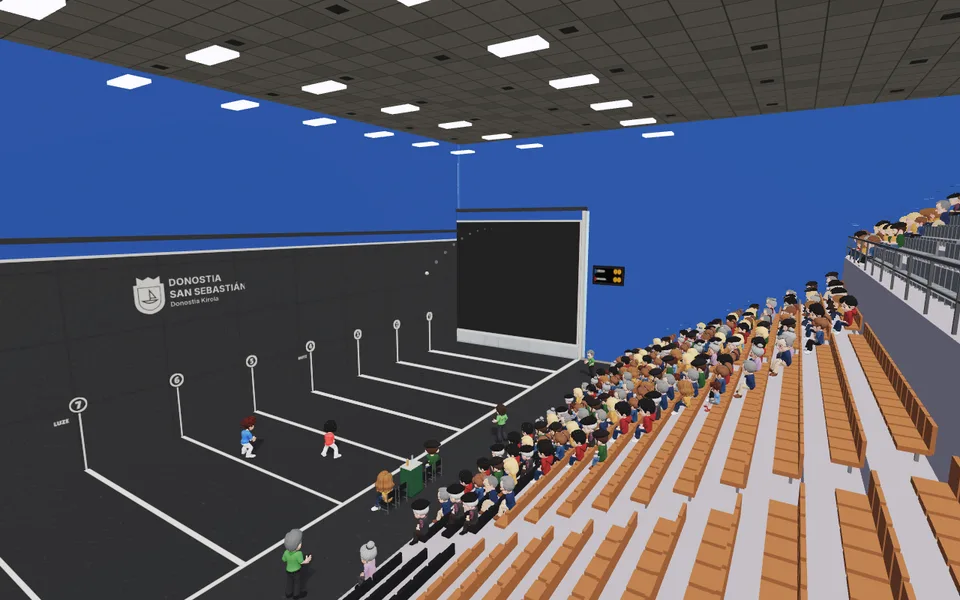
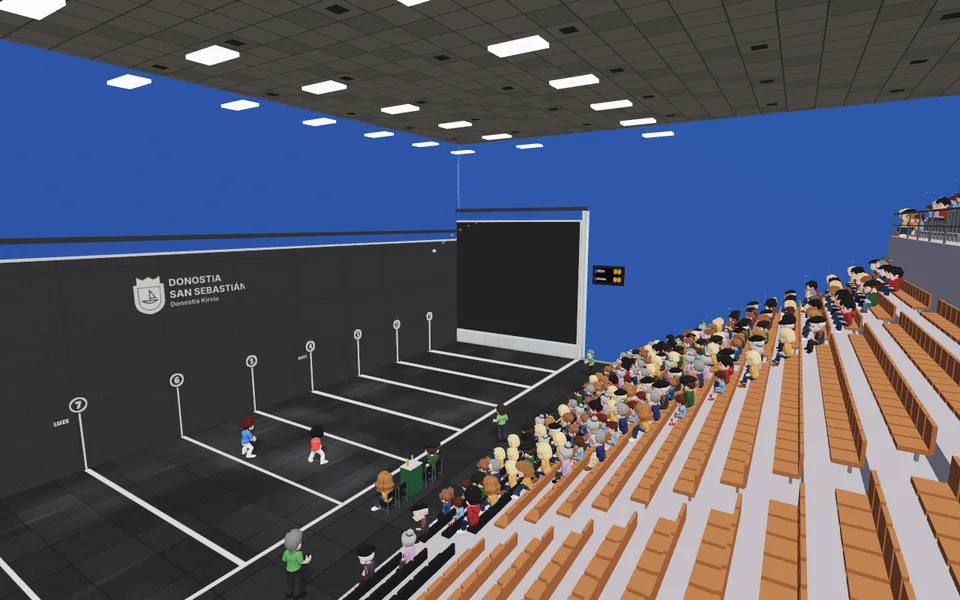
Atano III: el suelo de placas con brillo, la grada lateral mucho más grande y la grada del fondo encima del rebote
Por la foto del fondo que pasó el autor y su «el suelo es diferente y faltan muchísimas más gradas»: el suelo de placas
grandes, oscuro, gastado y con el brillo de las luces; la grada lateral de 27 filas (15 de butacas, las tres primeras
negras, y 12 de la grada alta); y al fondo, el rebote azul más bajo con la salida y la cristalera y, encima, la grada de
butacas rojas hasta el techo, de todo el ancho, con su red delante hasta donde rebota la pelota.

Claude-Session: https://claude.ai/code/session_01LP3syHb7415C8M5w3wgHaS

Changed region(s): [[0.375, 0.3, 1.0, 0.96], [0.2812, 0.72, 0.375, 0.78], [0.25, 0.72, 0.2812, 0.75]]

diff --git a/src/pelota/court.js b/src/pelota/court.js
@@ -190,11 +190,23 @@ export class PelotaCourt {
         const pw = (w - X(W / 2)) / 7, ph = h / (fl / 0.45), PQ = typeof th.parquet === 'string' ? [1, 3, 5].map(k => parseInt(th.parquet.slice(k, k + 2), 16)) : [214, 160, 98];
         for (let j = 0, z = 0; z < h; z += ph, j++) for (let i = 0; i < 7; i++) { const t = 0.9 + ((i * 7 + j * 13) % 9) / 40; c.fillStyle = `rgb(${Math.round(PQ[0] * t)},${Math.round(PQ[1] * t)},${Math.round(PQ[2] * t)})`; c.fillRect(X(W / 2) + i * pw + 1, z + ((i % 2) * ph) / 2, pw - 2, ph - 2); }
       }
+      // (el de cada mítico, sala.suelo: el del Atano III, de placas grandes con su junta, cada una de su tono, gastado más
+      // claro donde más se corre, entre el 3 y el 7 y junto al frontis, y con los brillos de las luces del techo)
+      const SU = this.mitico?.suelo;
+      if (SU?.placa) {
+        const q = SU.placa, sf = (n) => ((Math.sin(n * 127.1) * 43758.5453) % 1 + 1) % 1;
+        for (let i = 0, x = -W / 2; x < fw - W / 2; x += q, i++) for (let j = 0, z = 0; z < fl; z += q, j++) { const t = sf(i * 31 + j * 7) - 0.5; c.fillStyle = t > 0 ? `rgba(255,255,255,${t * 0.07})` : `rgba(0,0,0,${-t * 0.12})`; c.fillRect(X(x), Z(z), q * sx, q * sz); }
+        c.fillStyle = 'rgba(0,0,0,.45)'; for (let x = -W / 2; x < fw - W / 2; x += q) c.fillRect(X(x), 0, 1.5, h); for (let z = 0; z < fl; z += q) c.fillRect(0, Z(z), w, 1.5);
+        const mancha = (x, z, rx, rz, a) => { const gr = c.createRadialGradient(X(x), Z(z), 0, X(x), Z(z), Math.max(rx * sx, rz * sz)); gr.addColorStop(0, `rgba(170,175,182,${a})`); gr.addColorStop(1, 'rgba(170,175,182,0)'); c.save(); c.translate(X(x), Z(z)); c.scale(rx * sx / Math.max(rx * sx, rz * sz), rz * sz / Math.max(rx * sx, rz * sz)); c.translate(-X(x), -Z(z)); c.fillStyle = gr; c.fillRect(X(x) - rx * sx * 2, Z(z) - rz * sz * 2, rx * sx * 4, rz * sz * 4); c.restore(); };
+        for (let k = 0; k < 26; k++) mancha(-W / 2 + sf(k * 3.1) * W, 9 + sf(k * 5.7) * 18, 0.8 + sf(k) * 1.6, 0.8 + sf(k * 2.3) * 2.4, 0.08 + sf(k * 9.1) * 0.08);   // (el desgaste del juego)
+        for (let k = 0; k < 10; k++) mancha(-W / 2 + sf(k * 4.3) * W, 1 + sf(k * 8.9) * 6, 0.6 + sf(k * 1.7), 0.6 + sf(k * 6.1), 0.07);
+        if (SU.brillo) for (const x of [-W / 4, W / 4]) for (let z = 2.8; z < fl - 0.5; z += 4) mancha(x, z, 0.35, 1.5, 0.14);   // (los brillos de las luces)
+      }
       grain(c, w, h, 9000, 0.07); grain(c, w, h, 3000, 0.05, false);
       // (las rayas ya no se pintan aquí: van en el sombreador del suelo, rayasNitidas, más abajo)
     });
     floorTex.minFilter = T.LinearMipmapLinearFilter;
-    const floorMat = M({ map: floorTex, roughness: 0.92 });
+    const floorMat = M({ map: floorTex, roughness: this.mitico?.suelo?.brillo ? 0.55 : 0.92, metalness: this.mitico?.suelo?.brillo ? 0.08 : 0 });   // (el del Atano III, encerado: brilla algo)
     // las rayas de los cuadros, falta y pasa, la de la contracancha y la del fondo, exactas a cualquier distancia
     this.rayas = rayasNitidas(T, floorMat, { W, L, fw, fl, TRQ, line: th.line, mark: TRQ ? th.line : th.mark });
     const floor = new T.Mesh(new T.PlaneGeometry(fw, fl), floorMat);
@@ -464,8 +476,23 @@ export class PelotaCourt {
     // el rebote cierra la cancha por detrás, tan alto como la pared izquierda (solo detrás de la cancha: se entra por la
     // contracancha). En el Labrit, el muro bajo con la grada en herradura detrás. Cuando la cámara queda detrás de él,
     // se ve a través, como en los dibujos de las partes del frontón
-    const RH = this.reboteH = opts.labrit || BJ ? 2.2 : TRQ ? TQ_H : HALL ? this.hallH : C.LEFT_H;
-    const rebTex = canvasTex(T, 512, 512, (c, w, h) => {
+    // (en un mítico con grada detrás del rebote, sala.rebote: el rebote, más bajo y de su color, con sus puertas, como el azul
+    // del Atano III con la salida y la cristalera; encima, la grada del fondo: miticoSala)
+    const RB = HALL ? MIT?.rebote : null, RH = this.reboteH = opts.labrit || BJ ? 2.2 : TRQ ? TQ_H : HALL ? (RB?.alto || this.hallH) : C.LEFT_H;
+    const rebTex = canvasTex(T, 1024, 512, (c, w, h) => {
+      if (RB) {   // (u = 0 al lado de la contracancha, como lo ve quien mira al fondo desde la cancha)
+        const kx = w / (W + 0.6), ky = h / RH, X = (m) => m * kx, Y = (m) => h - m * ky;
+        c.fillStyle = RB.color || th.wall; c.fillRect(0, 0, w, h); grain(c, w, h, 6000, 0.04);
+        if (RB.puertas) {
+          // la cristalera oscura del lado de la pared izquierda, con sus montantes, y la puerta de salida con su letrero
+          c.fillStyle = '#1d232b'; c.fillRect(X(4.6), Y(3.3), X(5.6), X(3.0)); c.fillStyle = 'rgba(120,150,180,.18)'; for (let x = 4.6; x < 10.2; x += 1.4) c.fillRect(X(x), Y(3.3), X(0.06), 3.0 * ky);
+          c.fillStyle = '#c9ccd0'; c.fillRect(X(4.6), Y(0.3), X(5.6), 0.06 * ky);
+          c.fillStyle = '#20457f'; c.fillRect(X(2.2), Y(2.4), X(1.6), 2.4 * ky); c.fillStyle = '#9fb3cc'; c.fillRect(X(2.98), Y(2.4), X(0.04), 2.4 * ky);   // (la puerta, de dos hojas)
+          c.fillStyle = '#f2f2f0'; c.fillRect(X(2.0), Y(3.05), X(2.0), 0.45 * ky); c.fillStyle = '#1d4f9e'; c.font = `700 ${0.24 * ky}px Arial, sans-serif`; c.textAlign = 'center'; c.textBaseline = 'middle'; c.fillText('IRTEERA - SALIDA', X(3.0), Y(2.83));
+          c.fillStyle = '#1f9d55'; c.fillRect(X(3.55), Y(3.75), X(0.5), 0.25 * ky);   // (la luz verde de salida)
+        }
+        return;
+      }
       if (th.brick) bricks(c, w, h, W + 0.6, RH, '#a85c3e');
       else { c.fillStyle = th.wall; c.fillRect(0, 0, w, h); grain(c, w, h, 9000, 0.06); grain(c, w, h, 3000, 0.05, false); }
       weather(c, w, h, RH, W + 0.6, DRY);
@@ -936,7 +963,12 @@ export class PelotaCourt {
     if (th.marco && A.marcoLado && !TQ) { const mm = M({ color: A.marcoColor || th.marco, roughness: 0.6 }), fino = A.marcoLado === 'fino', sw = fino ? 0.1 : 0.32;
       if (!fino) box(0.5, C.FRONT_H, 0.04, mm, W / 2 + 0.55, C.FRONT_H / 2, za + 0.32); box(sw, C.FRONT_H, 0.3, mm, W / 2 + sw / 2, C.FRONT_H / 2, -0.18); }
     // el fondo, detrás de la contracancha y de la grada (el rebote ya llega al techo)
-    if (!TQ) box(xr - (W / 2 + 0.3), H, 0.6, fondoM, (xr + W / 2 + 0.3) / 2, H / 2, zb);
+    // (con la grada del fondo, sala.gradaFondo, la pared empieza donde la grada lateral, y delante de la contracancha va el
+    // murete azul, de lo que mide el rebote: encima, la grada)
+    // (y la grada ocupa todo el ancho del pabellón, como en la foto del fondo del Atano III)
+    const GF = MIT?.gradaFondo;
+    if (!TQ && !GF) box(xr - (W / 2 + 0.3), H, 0.6, fondoM, (xr + W / 2 + 0.3) / 2, H / 2, zb);
+    if (!TQ && GF) { const rb = MIT.rebote?.alto || GF.desde; box(xr - (W / 2 - 0.3), rb, 0.4, M({ color: MIT.rebote?.color || FONDO, roughness: 0.9 }), (xr + W / 2 - 0.3) / 2, rb / 2, EXT + 0.2); }
     // la pared derecha, detrás de la grada: de tablas de pino barnizado con ventanales arriba (el pabellón, Irañeta,
     // Igantzi), clara con su franja de ventanas (Isaba, Ziordia, Peralta) o de placas de policarbonato que dejan pasar la
     // luz (Urroz). Sin escudo ni nombre: el autor los quiere solo en la pared izquierda
@@ -1069,6 +1101,7 @@ export class PelotaCourt {
       if (Math.abs(z - (z0 + len / 3)) < 0.5 || Math.abs(z - (z0 + 2 * len / 3)) < 0.5) continue;   // (dos pasillos para subir)
       const x = xs + i * RD + 0.56, y = alto(i); seats.push([x, y, z, i]); this.standSpots.push([x, y + ASIENTO, z, -Math.PI / 2]);   // (la altura del asiento)
     }
+    if (this.spotsFondo) this.standSpots.push(...this.spotsFondo);   // (el de la grada del fondo, miticoSala)
     const seatM = M({ color: '#ffffff', roughness: 0.6 }), legM = M({ color: '#a9a8b1', roughness: 0.45, metalness: 0.4 }), col = new T.Color();   // (las patas, un pie fino y claro)
     if (seats.length) for (const [geo, nm] of [[seatG, 'asientos'], [backG, 'respaldos'], [legG, 'patas']]) {
       const SI = new T.InstancedMesh(geo, nm === 'patas' ? legM : seatM, seats.length);
@@ -1079,7 +1112,7 @@ export class PelotaCourt {
       SI.receiveShadow = true; SI.name = nm; g.add(SI);
     }
     this.seated = true; this.sitAdelante = 0.08; this.asiento = ASIENTO;   // (el público, sentado en sus asientos: con la cadera sobre el asiento, fronton.js)
-    this.extent = { x0: XL - 0.9, x1: xr + 0.9, z0: za - 0.6, z1: zb + 0.6 };
+    this.extent = { x0: XL - 0.9, x1: xr + 0.9, z0: za - 0.6, z1: Math.max(zb + 0.6, this.zFondo || 0) };
     this.platform = { x0: TQ ? -W / 2 : -W / 2 - 0.6, x1: xs, z0: za, z1: zb };   // (se anda por la cancha y la contracancha; la grada, no)
     this.boxes = this.boxes.filter(b => b.d !== L * 0.78);
     if (TQ) this.boxes.push({ x: W / 2 + 0.3, z: (za + zb) / 2, w: 0.6, d: zb - za }, { x: -W / 2 - 0.05, z: EXT / 2, w: 0.1, d: EXT });   // (la pared derecha y la red)
@@ -1135,6 +1168,36 @@ export class PelotaCourt {
     // escudo con «Eibarko Udala» de Astelena, el «Vitoria-Gasteiz» blanco de Ogueta), los carteles de abajo, el mural del
     // pelotari y la pantalla. en: 'izq' (la pared izquierda, z a lo largo) o 'frente' (la pared del frontis a su derecha, x)
     for (const Rt of S.rotulos || []) this.rotulo(T, M, Rt, { W, za });
+    if (S.gradaFondo) this.gradaFondo(T, M, S, { W, H, xr, EXT });
+  }
+  /** La grada del fondo, detrás y encima del rebote, como la del Atano III: el frente blanco con su barandilla, la red de
+   *  delante hasta donde vale el rebote (8,5 m: más abajo, la pelota rebota en ella), los escalones con sus butacas, el techo
+   *  de debajo, que se ve desde la cancha, y la pared de los lados y la de detrás, hasta el techo del pabellón */
+  gradaFondo(T, M, S, { W, H, xr, EXT }) {
+    const G = S.gradaFondo, g = this.group, x0 = -W / 2, x1 = xr, wx = x1 - x0, xm = (x0 + x1) / 2, z0 = EXT + 0.4, D = G.filas * G.fondo, y0 = G.desde;
+    const box = (w, h, d, mat, x, y, z) => { const m = new T.Mesh(new T.BoxGeometry(w, h, d), mat); m.position.set(x, y, z); m.receiveShadow = true; g.add(m); return m; };
+    const blanco = M({ color: G.frente || '#f2f2f0', roughness: 0.8 }), gris = M({ color: '#b9bcc2', roughness: 0.95 }), techoM = M({ color: '#3b3e44', roughness: 0.9 }), azul = M({ color: G.pared || '#2f6ed6', roughness: 0.9 });
+    const acero = M({ color: '#8d9298', roughness: 0.4, metalness: 0.5 });
+    box(wx, 0.3, D + 0.3, techoM, xm, y0 - 0.15, z0 + (D + 0.3) / 2);   // (el techo de debajo)
+    box(wx, 1.0, 0.25, blanco, xm, y0 + 0.5, z0 + 0.12);   // (el frente)
+    box(wx, 0.05, 0.05, acero, xm, y0 + 1.95, z0 + 0.12);
+    for (let x = x0 + 0.2; x < x1; x += 2) box(0.05, 0.95, 0.05, acero, x, y0 + 1.47, z0 + 0.12);   // (la barandilla)
+    // (la red, fina, de delante del frente a los 8,5 m del rebote)
+    const red = canvasTex(T, 128, 128, (c, w, h) => { c.clearRect(0, 0, w, h); c.strokeStyle = 'rgba(30,32,36,.55)'; c.lineWidth = 2; for (let i = 0; i <= w; i += 16) { c.beginPath(); c.moveTo(i, 0); c.lineTo(i, h); c.stroke(); c.beginPath(); c.moveTo(0, i); c.lineTo(w, i); c.stroke(); } });
+    red.wrapS = red.wrapT = T.RepeatWrapping; red.repeat.set(wx / 0.6, (COURT.REBOTE_H - y0) / 0.6);
+    const rm = new T.Mesh(new T.PlaneGeometry(wx, COURT.REBOTE_H - y0), M({ map: red, transparent: true, alphaTest: 0.2, side: T.DoubleSide, depthWrite: false })); rm.position.set(xm, (y0 + COURT.REBOTE_H) / 2, EXT + 0.05); rm.name = 'red-fondo'; g.add(rm);
+    // los escalones, las butacas y el público, mirando al frontis
+    const sp = this.spotsFondo = [], seats = [];
+    for (let i = 0; i < G.filas; i++) { const top = y0 + 0.4 + i * G.subida, z = z0 + 0.3 + i * G.fondo; box(wx, top - y0 + 0.3, G.fondo, gris, xm, (top + y0 - 0.3) / 2, z + G.fondo / 2);
+      for (let x = x0 + 0.5; x < x1 - 0.3; x += 0.52) { if (Math.abs(x - xm) < 0.5) continue; seats.push([x, top, z + G.fondo - 0.3]); sp.push([x, top + 0.28, z + G.fondo - 0.3, Math.PI]); } }   // (con su escalera en medio)
+    const sg = new T.BoxGeometry(0.44, 0.08, 0.4).translate(0, 0.24, 0), bg = new T.BoxGeometry(0.44, 0.44, 0.06).translate(0, 0.45, 0.2), m4 = new T.Matrix4(), sm = M({ color: G.color || '#b8342c', roughness: 0.6 });
+    for (const geo of [sg, bg]) { const I = new T.InstancedMesh(geo, sm, seats.length); seats.forEach(([x, y, z], i) => I.setMatrixAt(i, m4.makeTranslation(x, y, z))); I.name = 'butacas-fondo'; g.add(I); }
+    // las paredes de los lados y la de detrás, y el techo encima, como el del pabellón
+    const zE = z0 + D + 0.3;
+    box(0.6, H, zE - z0, azul, x1 + 0.3, H / 2, (z0 + zE) / 2); box(0.62, H, zE - z0, azul, x0 - 0.29, H / 2, (z0 + zE) / 2);   // (los lados: el de la pared izquierda, por dentro de la de detrás del rebote)
+    box(wx + 1.2, H, 0.6, azul, xm, H / 2, zE + 0.3);
+    box(wx + 1.2, 0.3, zE - z0 + 0.6, M({ color: '#a7abb1', roughness: 0.9 }), xm, H + 0.15, (z0 + zE) / 2);   // (el techo, claro como el del pabellón)
+    this.zFondo = zE + 1;   // (hasta dónde llega el pabellón: buildHall, extent)
   }
   /** Un rótulo de un mítico: texto en una o varias líneas (con su escudo si lo lleva), un cartel con su fondo, el mural de un
    *  pelotari o una pantalla; en un plano pegado a la pared, del tamaño que mide de verdad (en metros) */

diff --git a/src/data/frontonesMiticos.js b/src/data/frontonesMiticos.js
@@ -69,8 +69,15 @@ export const MITICOS = [
     look: { frontis: '#2b2d30', wall: '#46494d', floor: '#2f3236', contra: '#33363a', parquet: false, line: '#f2f2f0', mark: '#f2f2f0', numeros: '#f2f2f0', rayaFrontis: '#f2f2f0', chapa: '#d6e4f2', chapaMetal: false, marco: '#2f6ed6', seat: '#b8743c', seat2: '#1d1e21', stone: null },
     arq: 'pabellon', arqX: { techo: 'reticula', derecha: 'claro', claro: '#2f6ed6', alto: '#2f6ed6', sobre: '#2f6ed6', fondo: '#2f6ed6', marcoLado: 'fino', marcoColor: '#f2f2f0' },   // (encima de las rayas, azul; el filo del frontis, blanco)
     sala: {
-      alto: 15, filas: 20, fondo: 0.8, subida: 0.42, filas2: 3, salto: { fila: 13, alto: 1.6, color: '#8f9399' },
+      // (la grada lateral, grande: quince filas de butacas abajo y, encima, la grada alta de doce filas hasta casi el techo; y
+      // el suelo, de placas grandes, oscuro, gastado y con brillo)
+      alto: 15, filas: 27, fondo: 0.8, subida: 0.42, filas2: 3, salto: { fila: 15, alto: 1.8, color: '#8f9399' },
+      suelo: { placa: 1.5, brillo: true },
       marcador: 'led', ledColor: '#ffb31f', marcadorAncho: 1.9, marcadorY: 5.8, rayas: { FALTA: 'MOTZ', PASA: 'LUZE' },
+      // (por la foto del Diario Vasco que pasó el autor: al fondo no hay rebote hasta el techo, sino uno azul más bajo, con la
+      // cristalera y la salida, y encima la grada del fondo, de frente blanco y butacas rojas, hasta el techo)
+      rebote: { alto: 5.4, color: '#2f6ed6', puertas: true },
+      gradaFondo: { desde: 5.4, filas: 13, fondo: 0.85, subida: 0.62, color: '#b8342c', frente: '#f2f2f0', pared: '#2f6ed6' },
       banda: { desde: 10, alto: 0.1, color: '#2f6ed6', arriba: '#2f6ed6', rayas: [] },
       rotulos: [
         { en: 'izq', z: 20, y: 6.3, al: 'left', color: '#f2f2f0', escudo: { alto: 1.5, lado: 'izq', color: '#f2f2f0', trazo: '#f2f2f0', interior: '#46494d', barco: true },

diff --git a/COORDINACION.md b/COORDINACION.md
@@ -335,6 +335,7 @@ cinco ferias y los pelotaris estrella ya estaban.)
 
 ## Última publicación
 
+- 28 nov, tarde (2), la hizo la ventana de Auditoría (el autor: «el suelo es diferente y faltan muchísimas más gradas», con otra foto del Atano III): el suelo de placas grandes, oscuro, gastado y con brillo (`sala.suelo`); la grada lateral de 27 filas (15 de butacas y 12 de la grada alta); y al fondo, el rebote azul más bajo con la salida y la cristalera y, encima, la grada roja hasta el techo, con su red delante hasta los 8,5 m en los que rebota la pelota (`sala.rebote`, `sala.gradaFondo`, `court.js gradaFondo`). Pasadas la prueba de humo, la de estabilidad (844×390, 120 s) y la final de la Semana Grande con el pabellón lleno, hasta el final.
 - 28 nov, tarde, la hizo la ventana de Auditoría (el autor, con tres fotos de dentro del Atano III): el Atano III de Donostia, réplica de sus fotos (pared izquierda gris marengo con el escudo y «Donostia Kirola», todo lo de encima azul, frontis casi negro con su filo blanco, «LUZE» y «MOTZ», marcador pequeño de leds, techo de retícula, butacas naranjas con las tres primeras filas negras y la grada alta con barandilla); en `pelota/court.js`, lo que lo permite para cualquier mítico (`salto`, `filas2`, `rayas`, `marcadorAncho`/`marcadorY`/`ledColor`, `marcoLado: 'fino'`, techo `reticula`, rótulos sobre el frontis y escudo a la izquierda). La Semana Grande se juega ya en él. Pasadas la prueba de humo, la de estabilidad (844×390, 120 s) y la final de la Semana Grande hasta el final.
 - 28 nov, mediodía, la hizo la ventana de Auditoría (el autor: «seguimos construyendo todos los frontones con réplicas exactas, añadiendo todos los torneos»; «vete subiendo todo a la web»): hasta `280cff36`. Los frontones míticos (`data/frontonesMiticos.js`, `pelota/court.js` `miticoSala`, `rotulo` y `betiJai`): Ogueta, Astelena y el Beti Jai, con sus imágenes en el menú Frontones; las ferias de San Fermín, la Blanca, Semana Grande, Aste Nagusia y San Mateo; los ocho pelotaris estrella con carta premium y candado. Pasadas la prueba de humo, la de estabilidad de la pelota (844×390, 120 s; la primera vez, un peloteo larguísimo no llegó al descanso; la segunda, entera) y la final de la Blanca (en Ogueta) y la de Semana Grande (sin su frontón aún), las dos hasta el final.
 - 26 nov, noche (28.ª), la hizo la ventana de Auditoría (el autor: «me gustaría que los botilleros siguieran el juego con la cabeza»; «que la cámara no se acerque tanto cuando se hablan entre pelotari y botillero… se ve toda la imperfección de la malla»): hasta `530af3c9`. Los botilleros sentados giran solo la cabeza hacia la pelota, suave y sin pasar de lo que gira un cuello (`fronton.js`, cabezaQueMira y sigueBola: el cuello se gira en el sombreador de la figura quieta, sin tocar el modelo). En la charla del descanso, la cámara encuadra a los dos de cuerpo entero con aire alrededor (`match.js`): objetivo de 44° en vez de 26°, a la misma distancia de antes; alejarla sin más la metía entre el público. Prueba de estabilidad, 844×390 y 120 s: pasa.
